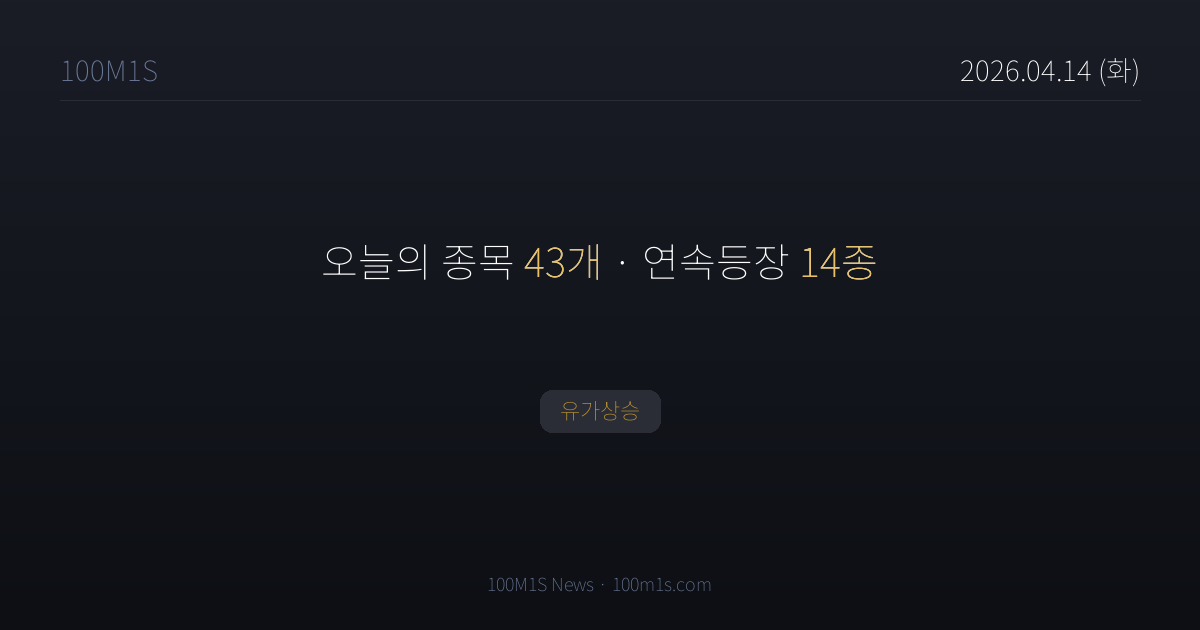
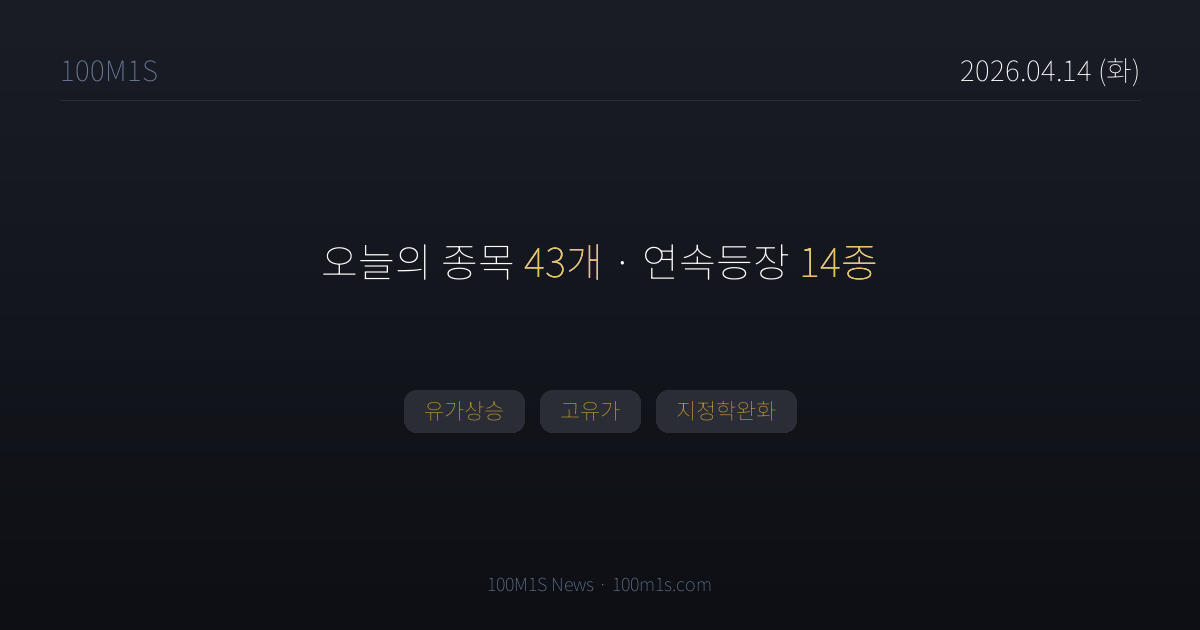
chore(news): 2026-04-14T20:59 pipeline

Changed region(s): [[0.3392, 0.6032, 0.6783, 0.6937]]

diff --git a/news/stock/2026-04-14.html b/news/stock/2026-04-14.html
@@ -4,7 +4,7 @@
 <meta charset="UTF-8">
 <title>4월 14일 (화) 뉴스 — 100M1S</title>
 <meta property="og:title" content="4월 14일 (화) · 종목 43개">
-<meta property="og:description" content="유가상승">
+<meta property="og:description" content="유가상승, 고유가, 지정학완화">
 <meta property="og:image" content="https://100m1s.com/og/news/stock/2026-04-14.png">
 <meta property="og:image:width" content="1200">
 <meta property="og:image:height" content="630">
